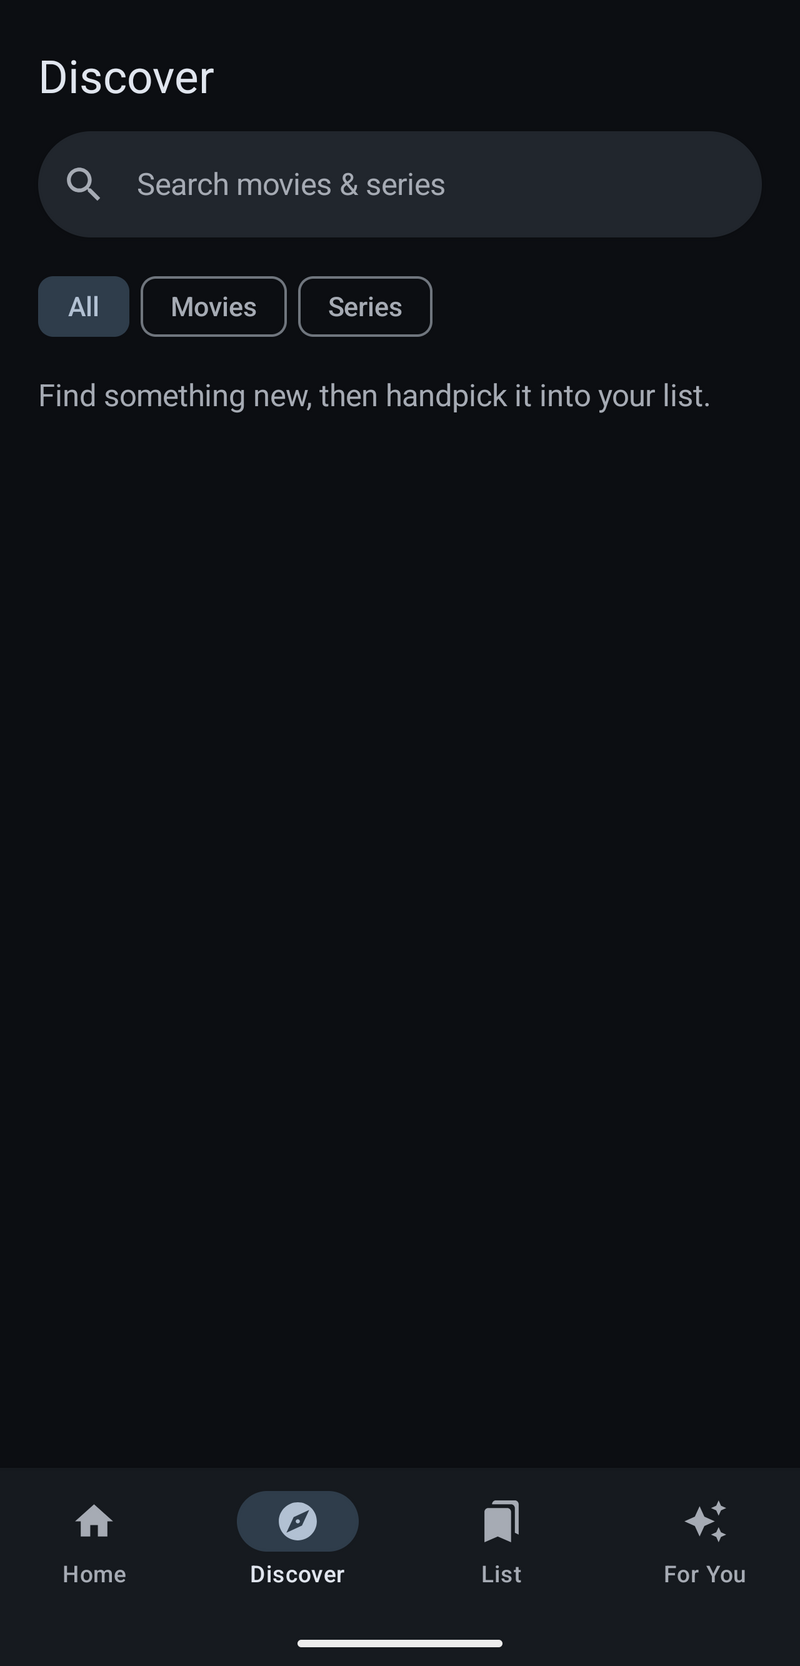
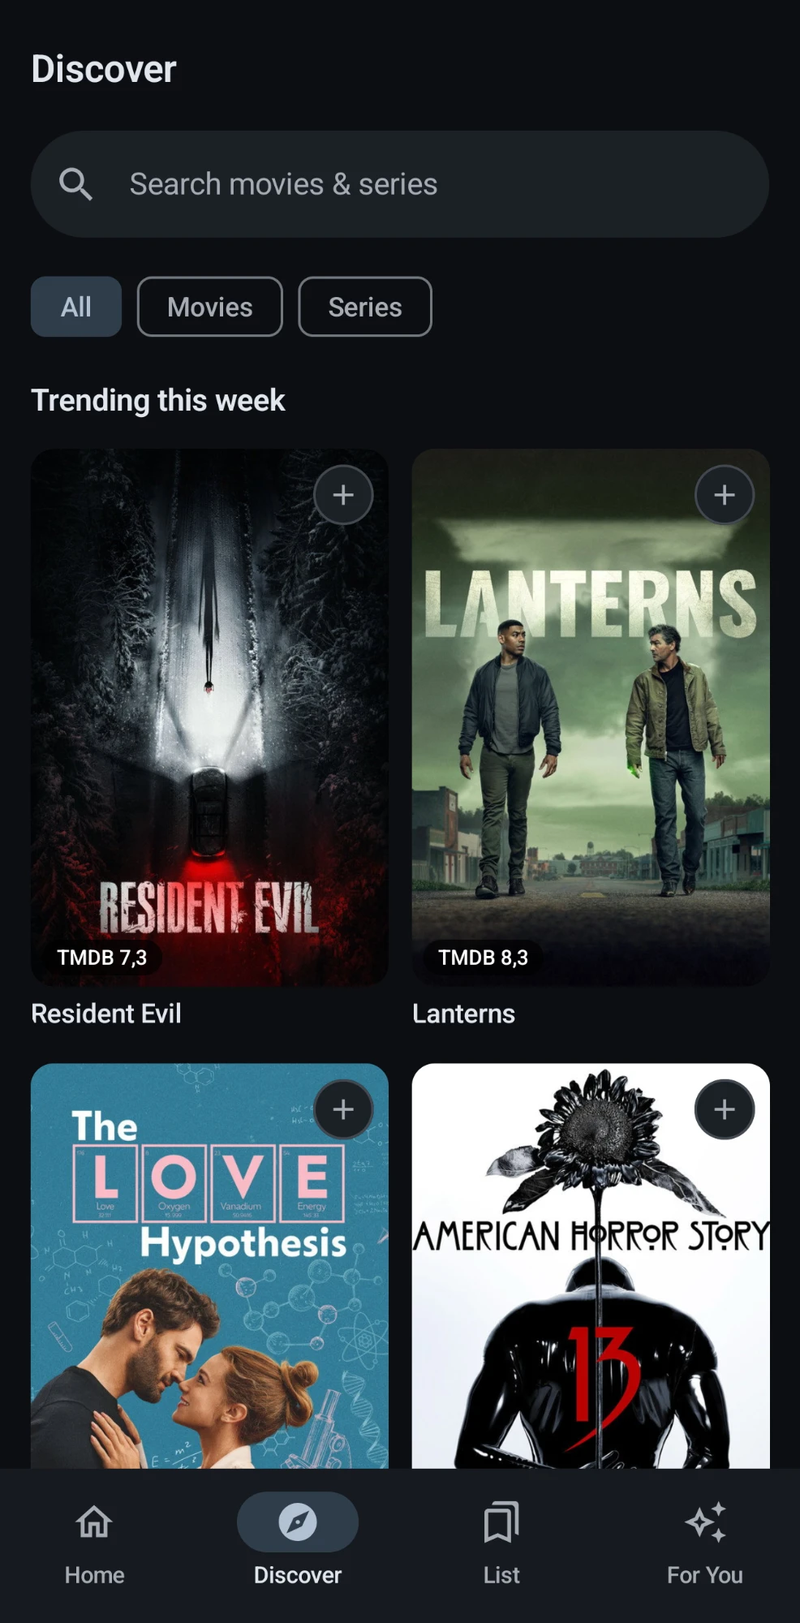
Show Tracker: new screenshots, add Upcoming and For You screens
Replace home, discover and watchlist screenshots with current builds, add
Upcoming tab and For You landing screens, and drop the Details figure
until a screenshot exists.

Claude-Session: https://claude.ai/code/session_012DZVYbFETi66sSevfHD91L

diff --git a/showtracker.html b/showtracker.html
@@ -126,11 +126,12 @@
 <section class="wrap section">
   <h2 class="h2 reveal">Screens</h2>
   <div class="screens reveal">
-    <figure><img class="lighten" loading="lazy" src="img/showtracker-home.png" alt="Home screen with New Releases and Upcoming tabs"><figcaption>Home: new releases and upcoming</figcaption></figure>
-    <figure><img class="lighten" loading="lazy" src="img/showtracker-details.png" alt="Detail screen with scores, watchlist button and new season alerts"><figcaption>Details: scores, trailer, season alerts</figcaption></figure>
+    <figure><img class="lighten" loading="lazy" src="img/showtracker-home.png" alt="Home screen, New Releases tab with titles from the last 30 days"><figcaption>Home: new releases</figcaption></figure>
+    <figure><img class="lighten" loading="lazy" src="img/showtracker-upcoming.png" alt="Home screen, Upcoming tab with a release timeline and bells"><figcaption>Home: upcoming timeline</figcaption></figure>
     <figure><img class="lighten" loading="lazy" src="img/showtracker-discover.png" alt="Discover screen showing trending titles"><figcaption>Discover: trending and search</figcaption></figure>
     <figure><img class="lighten" loading="lazy" src="img/showtracker-watchlist.png" alt="My Watchlist screen with List and History tabs"><figcaption>My Watchlist</figcaption></figure>
     <figure><img class="lighten" loading="lazy" src="img/showtracker-notifications.png" alt="Notifications screen with new seasons, out now and coming up"><figcaption>Notifications: seasons and releases</figcaption></figure>
+    <figure><img class="lighten" loading="lazy" src="img/showtracker-foryou.png" alt="For You screen with Take Quick Quiz and Drop Random Pick buttons"><figcaption>For You: quiz or random pick</figcaption></figure>
     <figure><img class="lighten" loading="lazy" src="img/showtracker-foryou-quiz.png" alt="For You quiz with mood, length and genre questions"><figcaption>For You: the quiz</figcaption></figure>
     <figure><img class="lighten" loading="lazy" src="img/showtracker-foryou-picks.png" alt="For You swipe card with keep and skip buttons"><figcaption>For You: swipe to keep or skip</figcaption></figure>
     <figure><img class="lighten" loading="lazy" src="img/showtracker-settings-genres.png" alt="Settings screen with region and preferred genres"><figcaption>Settings: region and genres</figcaption></figure>
